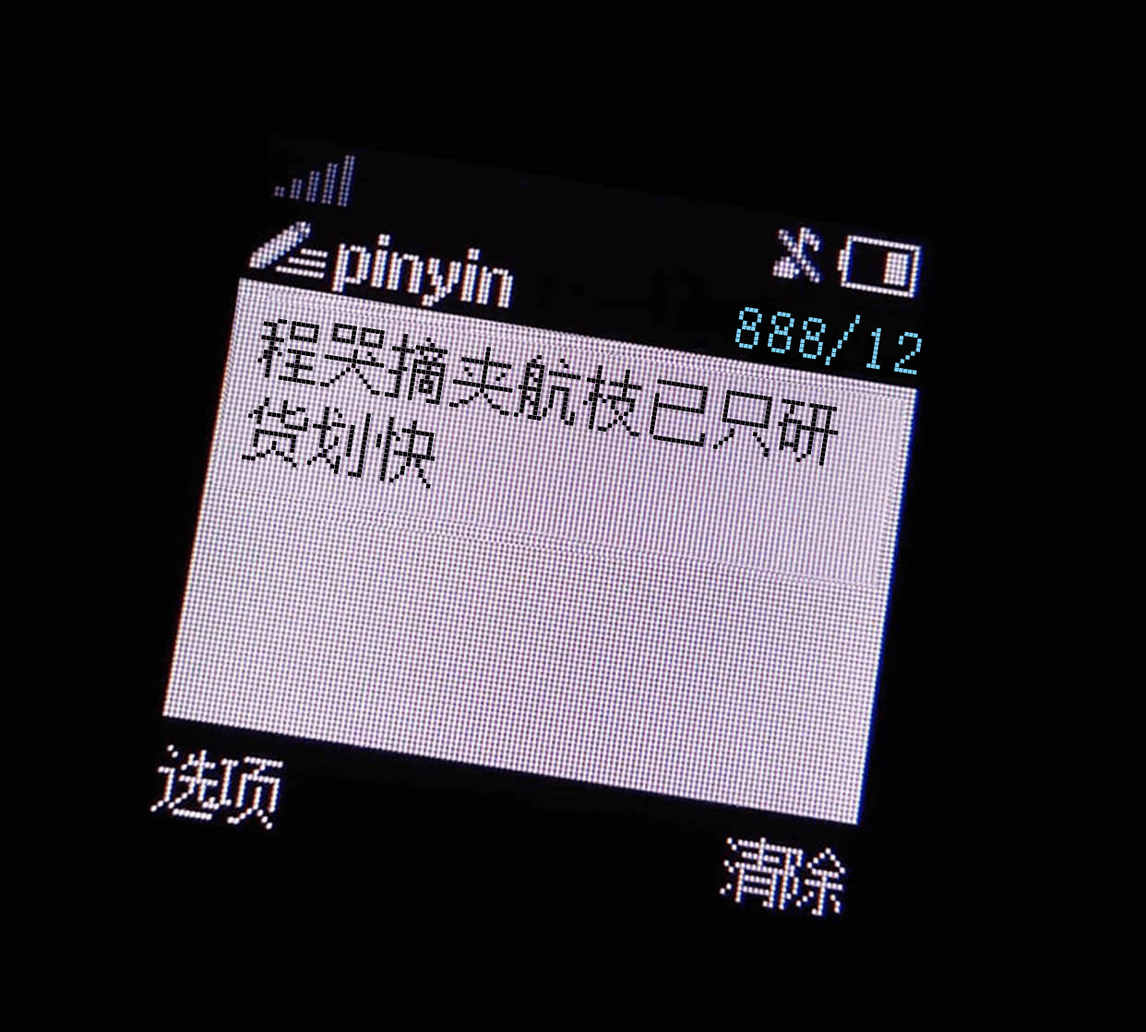
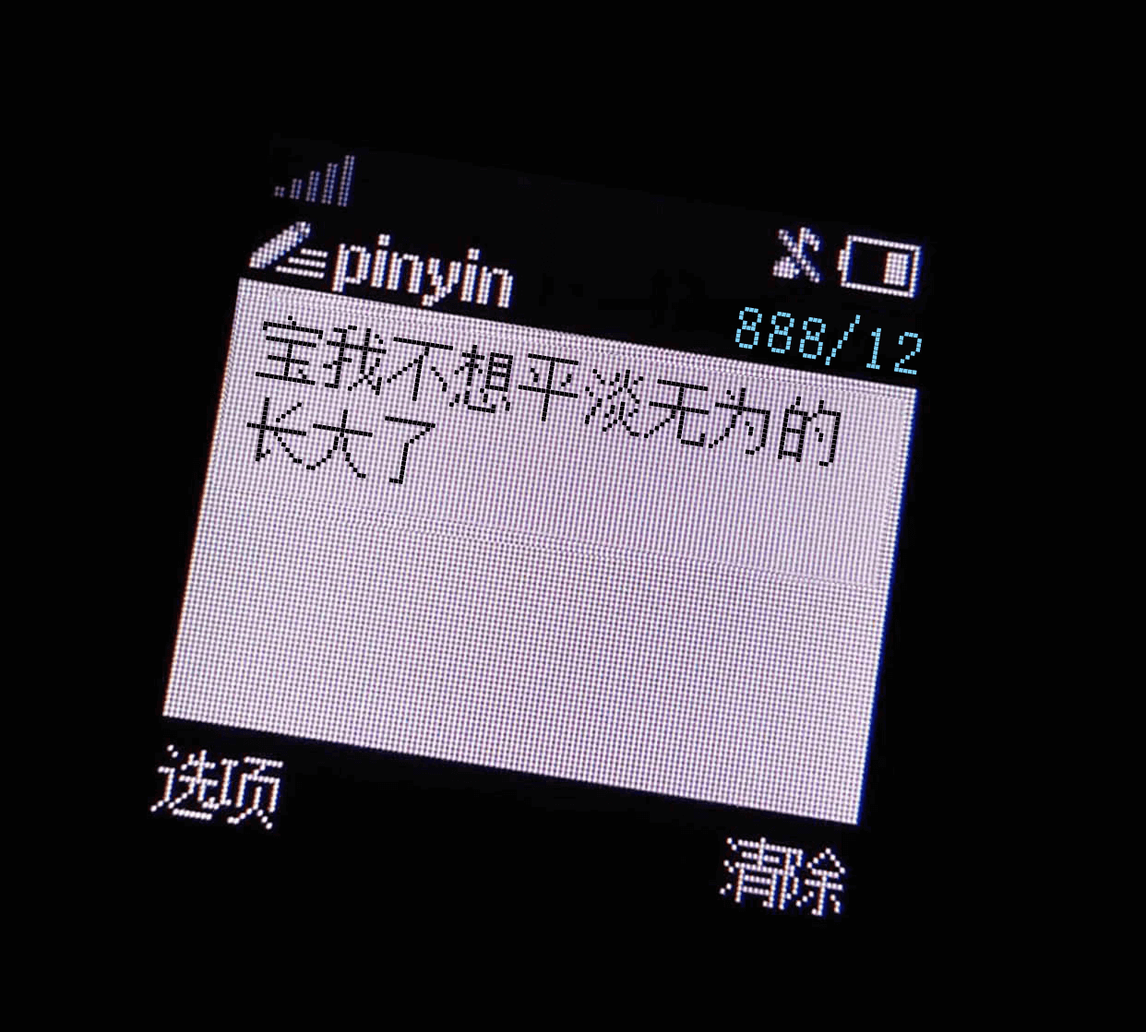
optimize readme

Changed region(s): [[0.2142, 0.3038, 0.7343, 0.4861]]

diff --git a/MnemonicPhraseCNTest.js b/MnemonicPhraseCNTest.js
@@ -1,0 +1,49 @@
+/**
+ * 测试中文助记词是否有效
+ */
+const ethers = require('ethers');
+
+const bip0039ENArray = ['abandon','ability','able','about','above','absent','absorb','abstract','absurd','abuse','access','accident','account','accuse','achieve','acid','acoustic','acquire','across','act','action','actor','actress','actual','adapt','add','addict','address','adjust','admit','adult','advance','advice','aerobic','affair','afford','afraid','again','age','agent','agree','ahead','aim','air','airport','aisle','alarm','album','alcohol','alert','alien','all','alley','allow','almost','alone','alpha','already','also','alter','always','amateur','amazing','among','amount','amused','analyst','anchor','ancient','anger','angle','angry','animal','ankle','announce','annual','another','answer','antenna','antique','anxiety','any','apart','apology','appear','apple','approve','april','arch','arctic','area','arena','argue','arm','armed','armor','army','around','arrange','arrest','arrive','arrow','art','artefact','artist','artwork','ask','aspect','assault','asset','assist','assume','asthma','athlete','atom','attack','attend','attitude','attract','auction','audit','august','aunt','author','auto','autumn','average','avocado','avoid','awake','aware','away','awesome','awful','awkward','axis','baby','bachelor','bacon','badge','bag','balance','balcony','ball','bamboo','banana','banner','bar','barely','bargain','barrel','base','basic','basket','battle','beach','bean','beauty','because','become','beef','before','begin','behave','behind','believe','below','belt','bench','benefit','best','betray','better','between','beyond','bicycle','bid','bike','bind','biology','bird','birth','bitter','black','blade','blame','blanket','blast','bleak','bless','blind','blood','blossom','blouse','blue','blur','blush','board','boat','body','boil','bomb','bone','bonus','book','boost','border','boring','borrow','boss','bottom','bounce','box','boy','bracket','brain','brand','brass','brave','bread','breeze','brick','bridge','brief','bright','bring','brisk','broccoli','broken','bronze','broom','brother','brown','brush','bubble','buddy','budget','buffalo','build','bulb','bulk','bullet','bundle','bunker','burden','burger','burst','bus','business','busy','butter','buyer','buzz','cabbage','cabin','cable','cactus','cage','cake','call','calm','camera','camp','can','canal','cancel','candy','cannon','canoe','canvas','canyon','capable','capital','captain','car','carbon','card','cargo','carpet','carry','cart','case','cash','casino','castle','casual','cat','catalog','catch','category','cattle','caught','cause','caution','cave','ceiling','celery','cement','census','century','cereal','certain','chair','chalk','champion','change','chaos','chapter','charge','chase','chat','cheap','check','cheese','chef','cherry','chest','chicken','chief','child','chimney','choice','choose','chronic','chuckle','chunk','churn','cigar','cinnamon','circle','citizen','city','civil','claim','clap','clarify','claw','clay','clean','clerk','clever','click','client','cliff','climb','clinic','clip','clock','clog','close','cloth','cloud','clown','club','clump','cluster','clutch','coach','coast','coconut','code','coffee','coil','coin','collect','color','column','combine','come','comfort','comic','common','company','concert','conduct','confirm','congress','connect','consider','control','convince','cook','cool','copper','copy','coral','core','corn','correct','cost','cotton','couch','country','couple','course','cousin','cover','coyote','crack','cradle','craft','cram','crane','crash','crater','crawl','crazy','cream','credit','creek','crew','cricket','crime','crisp','critic','crop','cross','crouch','crowd','crucial','cruel','cruise','crumble','crunch','crush','cry','crystal','cube','culture','cup','cupboard','curious','current','curtain','curve','cushion','custom','cute','cycle','dad','damage','damp','dance','danger','daring','dash','daughter','dawn','day','deal','debate','debris','decade','december','decide','decline','decorate','decrease','deer','defense','define','defy','degree','delay','deliver','demand','demise','denial','dentist','deny','depart','depend','deposit','depth','deputy','derive','describe','desert','design','desk','despair','destroy','detail','detect','develop','device','devote','diagram','dial','diamond','diary','dice','diesel','diet','differ','digital','dignity','dilemma','dinner','dinosaur','direct','dirt','disagree','discover','disease','dish','dismiss','disorder','display','distance','divert','divide','divorce','dizzy','doctor','document','dog','doll','dolphin','domain','donate','donkey','donor','door','dose','double','dove','draft','dragon','drama','drastic','draw','dream','dress','drift','drill','drink','drip','drive','drop','drum','dry','duck','dumb','dune','during','dust','dutch','duty','dwarf','dynamic','eager','eagle','early','earn','earth','easily','east','easy','echo','ecology','economy','edge','edit','educate','effort','egg','eight','either','elbow','elder','electric','elegant','element','elephant','elevator','elite','else','embark','embody','embrace','emerge','emotion','employ','empower','empty','enable','enact','end','endless','endorse','enemy','energy','enforce','engage','engine','enhance','enjoy','enlist','enough','enrich','enroll','ensure','enter','entire','entry','envelope','episode','equal','equip','era','erase','erode','erosion','error','erupt','escape','essay','essence','estate','eternal','ethics','evidence','evil','evoke','evolve','exact','example','excess','exchange','excite','exclude','excuse','execute','exercise','exhaust','exhibit','exile','exist','exit','exotic','expand','expect','expire','explain','expose','express','extend','extra','eye','eyebrow','fabric','face','faculty','fade','faint','faith','fall','false','fame','family','famous','fan','fancy','fantasy','farm','fashion','fat','fatal','father','fatigue','fault','favorite','feature','february','federal','fee','feed','feel','female','fence','festival','fetch','fever','few','fiber','fiction','field','figure','file','film','filter','final','find','fine','finger','finish','fire','firm','first','fiscal','fish','fit','fitness','fix','flag','flame','flash','flat','flavor','flee','flight','flip','float','flock','floor','flower','fluid','flush','fly','foam','focus','fog','foil','fold','follow','food','foot','force','forest','forget','fork','fortune','forum','forward','fossil','foster','found','fox','fragile','frame','frequent','fresh','friend','fringe','frog','front','frost','frown','frozen','fruit','fuel','fun','funny','furnace','fury','future','gadget','gain','galaxy','gallery','game','gap','garage','garbage','garden','garlic','garment','gas','gasp','gate','gather','gauge','gaze','general','genius','genre','gentle','genuine','gesture','ghost','giant','gift','giggle','ginger','giraffe','girl','give','glad','glance','glare','glass','glide','glimpse','globe','gloom','glory','glove','glow','glue','goat','goddess','gold','good','goose','gorilla','gospel','gossip','govern','gown','grab','grace','grain','grant','grape','grass','gravity','great','green','grid','grief','grit','grocery','group','grow','grunt','guard','guess','guide','guilt','guitar','gun','gym','habit','hair','half','hammer','hamster','hand','happy','harbor','hard','harsh','harvest','hat','have','hawk','hazard','head','health','heart','heavy','hedgehog','height','hello','helmet','help','hen','hero','hidden','high','hill','hint','hip','hire','history','hobby','hockey','hold','hole','holiday','hollow','home','honey','hood','hope','horn','horror','horse','hospital','host','hotel','hour','hover','hub','huge','human','humble','humor','hundred','hungry','hunt','hurdle','hurry','hurt','husband','hybrid','ice','icon','idea','identify','idle','ignore','ill','illegal','illness','image','imitate','immense','immune','impact','impose','improve','impulse','inch','include','income','increase','index','indicate','indoor','industry','infant','inflict','inform','inhale','inherit','initial','inject','injury','inmate','inner','innocent','input','inquiry','insane','insect','inside','inspire','install','intact','interest','into','invest','invite','involve','iron','island','isolate','issue','item','ivory','jacket','jaguar','jar','jazz','jealous','jeans','jelly','jewel','job','join','joke','journey','joy','judge','juice','jump','jungle','junior','junk','just','kangaroo','keen','keep','ketchup','key','kick','kid','kidney','kind','kingdom','kiss','kit','kitchen','kite','kitten','kiwi','knee','knife','knock','know','lab','label','labor','ladder','lady','lake','lamp','language','laptop','large','later','latin','laugh','laundry','lava','law','lawn','lawsuit','layer','lazy','leader','leaf','learn','leave','lecture','left','leg','legal','legend','leisure','lemon','lend','length','lens','leopard','lesson','letter','level','liar','liberty','library','license','life','lift','light','like','limb','limit','link','lion','liquid','list','little','live','lizard','load','loan','lobster','local','lock','logic','lonely','long','loop','lottery','loud','lounge','love','loyal','lucky','luggage','lumber','lunar','lunch','luxury','lyrics','machine','mad','magic','magnet','maid','mail','main','major','make','mammal','man','manage','mandate','mango','mansion','manual','maple','marble','march','margin','marine','market','marriage','mask','mass','master','match','material','math','matrix','matter','maximum','maze','meadow','mean','measure','meat','mechanic','medal','media','melody','melt','member','memory','mention','menu','mercy','merge','merit','merry','mesh','message','metal','method','middle','midnight','milk','million','mimic','mind','minimum','minor','minute','miracle','mirror','misery','miss','mistake','mix','mixed','mixture','mobile','model','modify','mom','moment','monitor','monkey','monster','month','moon','moral','more','morning','mosquito','mother','motion','motor','mountain','mouse','move','movie','much','muffin','mule','multiply','muscle','museum','mushroom','music','must','mutual','myself','mystery','myth','naive','name','napkin','narrow','nasty','nation','nature','near','neck','need','negative','neglect','neither','nephew','nerve','nest','net','network','neutral','never','news','next','nice','night','noble','noise','nominee','noodle','normal','north','nose','notable','note','nothing','notice','novel','now','nuclear','number','nurse','nut','oak','obey','object','oblige','obscure','observe','obtain','obvious','occur','ocean','october','odor','off','offer','office','often','oil','okay','old','olive','olympic','omit','once','one','onion','online','only','open','opera','opinion','oppose','option','orange','orbit','orchard','order','ordinary','organ','orient','original','orphan','ostrich','other','outdoor','outer','output','outside','oval','oven','over','own','owner','oxygen','oyster','ozone','pact','paddle','page','pair','palace','palm','panda','panel','panic','panther','paper','parade','parent','park','parrot','party','pass','patch','path','patient','patrol','pattern','pause','pave','payment','peace','peanut','pear','peasant','pelican','pen','penalty','pencil','people','pepper','perfect','permit','person','pet','phone','photo','phrase','physical','piano','picnic','picture','piece','pig','pigeon','pill','pilot','pink','pioneer','pipe','pistol','pitch','pizza','place','planet','plastic','plate','play','please','pledge','pluck','plug','plunge','poem','poet','point','polar','pole','police','pond','pony','pool','popular','portion','position','possible','post','potato','pottery','poverty','powder','power','practice','praise','predict','prefer','prepare','present','pretty','prevent','price','pride','primary','print','priority','prison','private','prize','problem','process','produce','profit','program','project','promote','proof','property','prosper','protect','proud','provide','public','pudding','pull','pulp','pulse','pumpkin','punch','pupil','puppy','purchase','purity','purpose','purse','push','put','puzzle','pyramid','quality','quantum','quarter','question','quick','quit','quiz','quote','rabbit','raccoon','race','rack','radar','radio','rail','rain','raise','rally','ramp','ranch','random','range','rapid','rare','rate','rather','raven','raw','razor','ready','real','reason','rebel','rebuild','recall','receive','recipe','record','recycle','reduce','reflect','reform','refuse','region','regret','regular','reject','relax','release','relief','rely','remain','remember','remind','remove','render','renew','rent','reopen','repair','repeat','replace','report','require','rescue','resemble','resist','resource','response','result','retire','retreat','return','reunion','reveal','review','reward','rhythm','rib','ribbon','rice','rich','ride','ridge','rifle','right','rigid','ring','riot','ripple','risk','ritual','rival','river','road','roast','robot','robust','rocket','romance','roof','rookie','room','rose','rotate','rough','round','route','royal','rubber','rude','rug','rule','run','runway','rural','sad','saddle','sadness','safe','sail','salad','salmon','salon','salt','salute','same','sample','sand','satisfy','satoshi','sauce','sausage','save','say','scale','scan','scare','scatter','scene','scheme','school','science','scissors','scorpion','scout','scrap','screen','script','scrub','sea','search','season','seat','second','secret','section','security','seed','seek','segment','select','sell','seminar','senior','sense','sentence','series','service','session','settle','setup','seven','shadow','shaft','shallow','share','shed','shell','sheriff','shield','shift','shine','ship','shiver','shock','shoe','shoot','shop','short','shoulder','shove','shrimp','shrug','shuffle','shy','sibling','sick','side','siege','sight','sign','silent','silk','silly','silver','similar','simple','since','sing','siren','sister','situate','six','size','skate','sketch','ski','skill','skin','skirt','skull','slab','slam','sleep','slender','slice','slide','slight','slim','slogan','slot','slow','slush','small','smart','smile','smoke','smooth','snack','snake','snap','sniff','snow','soap','soccer','social','sock','soda','soft','solar','soldier','solid','solution','solve','someone','song','soon','sorry','sort','soul','sound','soup','source','south','space','spare','spatial','spawn','speak','special','speed','spell','spend','sphere','spice','spider','spike','spin','spirit','split','spoil','sponsor','spoon','sport','spot','spray','spread','spring','spy','square','squeeze','squirrel','stable','stadium','staff','stage','stairs','stamp','stand','start','state','stay','steak','steel','stem','step','stereo','stick','still','sting','stock','stomach','stone','stool','story','stove','strategy','street','strike','strong','struggle','student','stuff','stumble','style','subject','submit','subway','success','such','sudden','suffer','sugar','suggest','suit','summer','sun','sunny','sunset','super','supply','supreme','sure','surface','surge','surprise','surround','survey','suspect','sustain','swallow','swamp','swap','swarm','swear','sweet','swift','swim','swing','switch','sword','symbol','symptom','syrup','system','table','tackle','tag','tail','talent','talk','tank','tape','target','task','taste','tattoo','taxi','teach','team','tell','ten','tenant','tennis','tent','term','test','text','thank','that','theme','then','theory','there','they','thing','this','thought','three','thrive','throw','thumb','thunder','ticket','tide','tiger','tilt','timber','time','tiny','tip','tired','tissue','title','toast','tobacco','today','toddler','toe','together','toilet','token','tomato','tomorrow','tone','tongue','tonight','tool','tooth','top','topic','topple','torch','tornado','tortoise','toss','total','tourist','toward','tower','town','toy','track','trade','traffic','tragic','train','transfer','trap','trash','travel','tray','treat','tree','trend','trial','tribe','trick','trigger','trim','trip','trophy','trouble','truck','true','truly','trumpet','trust','truth','try','tube','tuition','tumble','tuna','tunnel','turkey','turn','turtle','twelve','twenty','twice','twin','twist','two','type','typical','ugly','umbrella','unable','unaware','uncle','uncover','under','undo','unfair','unfold','unhappy','uniform','unique','unit','universe','unknown','unlock','until','unusual','unveil','update','upgrade','uphold','upon','upper','upset','urban','urge','usage','use','used','useful','useless','usual','utility','vacant','vacuum','vague','valid','valley','valve','van','vanish','vapor','various','vast','vault','vehicle','velvet','vendor','venture','venue','verb','verify','version','very','vessel','veteran','viable','vibrant','vicious','victory','video','view','village','vintage','violin','virtual','virus','visa','visit','visual','vital','vivid','vocal','voice','void','volcano','volume','vote','voyage','wage','wagon','wait','walk','wall','walnut','want','warfare','warm','warrior','wash','wasp','waste','water','wave','way','wealth','weapon','wear','weasel','weather','web','wedding','weekend','weird','welcome','west','wet','whale','what','wheat','wheel','when','where','whip','whisper','wide','width','wife','wild','will','win','window','wine','wing','wink','winner','winter','wire','wisdom','wise','wish','witness','wolf','woman','wonder','wood','wool','word','work','world','worry','worth','wrap','wreck','wrestle','wrist','write','wrong','yard','year','yellow','you','young','youth','zebra','zero','zone','zoo'];
+const bip0039CNArray = ['的', '一', '是', '在', '不', '了', '有', '和', '人', '这', '中', '大', '为', '上', '个', '国', '我', '以', '要', '他', '时', '来', '用', '们', '生', '到', '作', '地', '于', '出', '就', '分', '对', '成', '会', '可', '主', '发', '年', '动', '同', '工', '也', '能', '下', '过', '子', '说', '产', '种', '面', '而', '方', '后', '多', '定', '行', '学', '法', '所', '民', '得', '经', '十', '三', '之', '进', '着', '等', '部', '度', '家', '电', '力', '里', '如', '水', '化', '高', '自', '二', '理', '起', '小', '物', '现', '实', '加', '量', '都', '两', '体', '制', '机', '当', '使', '点', '从', '业', '本', '去', '把', '性', '好', '应', '开', '它', '合', '还', '因', '由', '其', '些', '然', '前', '外', '天', '政', '四', '日', '那', '社', '义', '事', '平', '形', '相', '全', '表', '间', '样', '与', '关', '各', '重', '新', '线', '内', '数', '正', '心', '反', '你', '明', '看', '原', '又', '么', '利', '比', '或', '但', '质', '气', '第', '向', '道', '命', '此', '变', '条', '只', '没', '结', '解', '问', '意', '建', '月', '公', '无', '系', '军', '很', '情', '者', '最', '立', '代', '想', '已', '通', '并', '提', '直', '题', '党', '程', '展', '五', '果', '料', '象', '员', '革', '位', '入', '常', '文', '总', '次', '品', '式', '活', '设', '及', '管', '特', '件', '长', '求', '老', '头', '基', '资', '边', '流', '路', '级', '少', '图', '山', '统', '接', '知', '较', '将', '组', '见', '计', '别', '她', '手', '角', '期', '根', '论', '运', '农', '指', '几', '九', '区', '强', '放', '决', '西', '被', '干', '做', '必', '战', '先', '回', '则', '任', '取', '据', '处', '队', '南', '给', '色', '光', '门', '即', '保', '治', '北', '造', '百', '规', '热', '领', '七', '海', '口', '东', '导', '器', '压', '志', '世', '金', '增', '争', '济', '阶', '油', '思', '术', '极', '交', '受', '联', '什', '认', '六', '共', '权', '收', '证', '改', '清', '美', '再', '采', '转', '更', '单', '风', '切', '打', '白', '教', '速', '花', '带', '安', '场', '身', '车', '例', '真', '务', '具', '万', '每', '目', '至', '达', '走', '积', '示', '议', '声', '报', '斗', '完', '类', '八', '离', '华', '名', '确', '才', '科', '张', '信', '马', '节', '话', '米', '整', '空', '元', '况', '今', '集', '温', '传', '土', '许', '步', '群', '广', '石', '记', '需', '段', '研', '界', '拉', '林', '律', '叫', '且', '究', '观', '越', '织', '装', '影', '算', '低', '持', '音', '众', '书', '布', '复', '容', '儿', '须', '际', '商', '非', '验', '连', '断', '深', '难', '近', '矿', '千', '周', '委', '素', '技', '备', '半', '办', '青', '省', '列', '习', '响', '约', '支', '般', '史', '感', '劳', '便', '团', '往', '酸', '历', '市', '克', '何', '除', '消', '构', '府', '称', '太', '准', '精', '值', '号', '率', '族', '维', '划', '选', '标', '写', '存', '候', '毛', '亲', '快', '效', '斯', '院', '查', '江', '型', '眼', '王', '按', '格', '养', '易', '置', '派', '层', '片', '始', '却', '专', '状', '育', '厂', '京', '识', '适', '属', '圆', '包', '火', '住', '调', '满', '县', '局', '照', '参', '红', '细', '引', '听', '该', '铁', '价', '严', '首', '底', '液', '官', '德', '随', '病', '苏', '失', '尔', '死', '讲', '配', '女', '黄', '推', '显', '谈', '罪', '神', '艺', '呢', '席', '含', '企', '望', '密', '批', '营', '项', '防', '举', '球', '英', '氧', '势', '告', '李', '台', '落', '木', '帮', '轮', '破', '亚', '师', '围', '注', '远', '字', '材', '排', '供', '河', '态', '封', '另', '施', '减', '树', '溶', '怎', '止', '案', '言', '士', '均', '武', '固', '叶', '鱼', '波', '视', '仅', '费', '紧', '爱', '左', '章', '早', '朝', '害', '续', '轻', '服', '试', '食', '充', '兵', '源', '判', '护', '司', '足', '某', '练', '差', '致', '板', '田', '降', '黑', '犯', '负', '击', '范', '继', '兴', '似', '余', '坚', '曲', '输', '修', '故', '城', '夫', '够', '送', '笔', '船', '占', '右', '财', '吃', '富', '春', '职', '觉', '汉', '画', '功', '巴', '跟', '虽', '杂', '飞', '检', '吸', '助', '升', '阳', '互', '初', '创', '抗', '考', '投', '坏', '策', '古', '径', '换', '未', '跑', '留', '钢', '曾', '端', '责', '站', '简', '述', '钱', '副', '尽', '帝', '射', '草', '冲', '承', '独', '令', '限', '阿', '宣', '环', '双', '请', '超', '微', '让', '控', '州', '良', '轴', '找', '否', '纪', '益', '依', '优', '顶', '础', '载', '倒', '房', '突', '坐', '粉', '敌', '略', '客', '袁', '冷', '胜', '绝', '析', '块', '剂', '测', '丝', '协', '诉', '念', '陈', '仍', '罗', '盐', '友', '洋', '错', '苦', '夜', '刑', '移', '频', '逐', '靠', '混', '母', '短', '皮', '终', '聚', '汽', '村', '云', '哪', '既', '距', '卫', '停', '烈', '央', '察', '烧', '迅', '境', '若', '印', '洲', '刻', '括', '激', '孔', '搞', '甚', '室', '待', '核', '校', '散', '侵', '吧', '甲', '游', '久', '菜', '味', '旧', '模', '湖', '货', '损', '预', '阻', '毫', '普', '稳', '乙', '妈', '植', '息', '扩', '银', '语', '挥', '酒', '守', '拿', '序', '纸', '医', '缺', '雨', '吗', '针', '刘', '啊', '急', '唱', '误', '训', '愿', '审', '附', '获', '茶', '鲜', '粮', '斤', '孩', '脱', '硫', '肥', '善', '龙', '演', '父', '渐', '血', '欢', '械', '掌', '歌', '沙', '刚', '攻', '谓', '盾', '讨', '晚', '粒', '乱', '燃', '矛', '乎', '杀', '药', '宁', '鲁', '贵', '钟', '煤', '读', '班', '伯', '香', '介', '迫', '句', '丰', '培', '握', '兰', '担', '弦', '蛋', '沉', '假', '穿', '执', '答', '乐', '谁', '顺', '烟', '缩', '征', '脸', '喜', '松', '脚', '困', '异', '免', '背', '星', '福', '买', '染', '井', '概', '慢', '怕', '磁', '倍', '祖', '皇', '促', '静', '补', '评', '翻', '肉', '践', '尼', '衣', '宽', '扬', '棉', '希', '伤', '操', '垂', '秋', '宜', '氢', '套', '督', '振', '架', '亮', '末', '宪', '庆', '编', '牛', '触', '映', '雷', '销', '诗', '座', '居', '抓', '裂', '胞', '呼', '娘', '景', '威', '绿', '晶', '厚', '盟', '衡', '鸡', '孙', '延', '危', '胶', '屋', '乡', '临', '陆', '顾', '掉', '呀', '灯', '岁', '措', '束', '耐', '剧', '玉', '赵', '跳', '哥', '季', '课', '凯', '胡', '额', '款', '绍', '卷', '齐', '伟', '蒸', '殖', '永', '宗', '苗', '川', '炉', '岩', '弱', '零', '杨', '奏', '沿', '露', '杆', '探', '滑', '镇', '饭', '浓', '航', '怀', '赶', '库', '夺', '伊', '灵', '税', '途', '灭', '赛', '归', '召', '鼓', '播', '盘', '裁', '险', '康', '唯', '录', '菌', '纯', '借', '糖', '盖', '横', '符', '私', '努', '堂', '域', '枪', '润', '幅', '哈', '竟', '熟', '虫', '泽', '脑', '壤', '碳', '欧', '遍', '侧', '寨', '敢', '彻', '虑', '斜', '薄', '庭', '纳', '弹', '饲', '伸', '折', '麦', '湿', '暗', '荷', '瓦', '塞', '床', '筑', '恶', '户', '访', '塔', '奇', '透', '梁', '刀', '旋', '迹', '卡', '氯', '遇', '份', '毒', '泥', '退', '洗', '摆', '灰', '彩', '卖', '耗', '夏', '择', '忙', '铜', '献', '硬', '予', '繁', '圈', '雪', '函', '亦', '抽', '篇', '阵', '阴', '丁', '尺', '追', '堆', '雄', '迎', '泛', '爸', '楼', '避', '谋', '吨', '野', '猪', '旗', '累', '偏', '典', '馆', '索', '秦', '脂', '潮', '爷', '豆', '忽', '托', '惊', '塑', '遗', '愈', '朱', '替', '纤', '粗', '倾', '尚', '痛', '楚', '谢', '奋', '购', '磨', '君', '池', '旁', '碎', '骨', '监', '捕', '弟', '暴', '割', '贯', '殊', '释', '词', '亡', '壁', '顿', '宝', '午', '尘', '闻', '揭', '炮', '残', '冬', '桥', '妇', '警', '综', '招', '吴', '付', '浮', '遭', '徐', '您', '摇', '谷', '赞', '箱', '隔', '订', '男', '吹', '园', '纷', '唐', '败', '宋', '玻', '巨', '耕', '坦', '荣', '闭', '湾', '键', '凡', '驻', '锅', '救', '恩', '剥', '凝', '碱', '齿', '截', '炼', '麻', '纺', '禁', '废', '盛', '版', '缓', '净', '睛', '昌', '婚', '涉', '筒', '嘴', '插', '岸', '朗', '庄', '街', '藏', '姑', '贸', '腐', '奴', '啦', '惯', '乘', '伙', '恢', '匀', '纱', '扎', '辩', '耳', '彪', '臣', '亿', '璃', '抵', '脉', '秀', '萨', '俄', '网', '舞', '店', '喷', '纵', '寸', '汗', '挂', '洪', '贺', '闪', '柬', '爆', '烯', '津', '稻', '墙', '软', '勇', '像', '滚', '厘', '蒙', '芳', '肯', '坡', '柱', '荡', '腿', '仪', '旅', '尾', '轧', '冰', '贡', '登', '黎', '削', '钻', '勒', '逃', '障', '氨', '郭', '峰', '币', '港', '伏', '轨', '亩', '毕', '擦', '莫', '刺', '浪', '秘', '援', '株', '健', '售', '股', '岛', '甘', '泡', '睡', '童', '铸', '汤', '阀', '休', '汇', '舍', '牧', '绕', '炸', '哲', '磷', '绩', '朋', '淡', '尖', '启', '陷', '柴', '呈', '徒', '颜', '泪', '稍', '忘', '泵', '蓝', '拖', '洞', '授', '镜', '辛', '壮', '锋', '贫', '虚', '弯', '摩', '泰', '幼', '廷', '尊', '窗', '纲', '弄', '隶', '疑', '氏', '宫', '姐', '震', '瑞', '怪', '尤', '琴', '循', '描', '膜', '违', '夹', '腰', '缘', '珠', '穷', '森', '枝', '竹', '沟', '催', '绳', '忆', '邦', '剩', '幸', '浆', '栏', '拥', '牙', '贮', '礼', '滤', '钠', '纹', '罢', '拍', '咱', '喊', '袖', '埃', '勤', '罚', '焦', '潜', '伍', '墨', '欲', '缝', '姓', '刊', '饱', '仿', '奖', '铝', '鬼', '丽', '跨', '默', '挖', '链', '扫', '喝', '袋', '炭', '污', '幕', '诸', '弧', '励', '梅', '奶', '洁', '灾', '舟', '鉴', '苯', '讼', '抱', '毁', '懂', '寒', '智', '埔', '寄', '届', '跃', '渡', '挑', '丹', '艰', '贝', '碰', '拔', '爹', '戴', '码', '梦', '芽', '熔', '赤', '渔', '哭', '敬', '颗', '奔', '铅', '仲', '虎', '稀', '妹', '乏', '珍', '申', '桌', '遵', '允', '隆', '螺', '仓', '魏', '锐', '晓', '氮', '兼', '隐', '碍', '赫', '拨', '忠', '肃', '缸', '牵', '抢', '博', '巧', '壳', '兄', '杜', '讯', '诚', '碧', '祥', '柯', '页', '巡', '矩', '悲', '灌', '龄', '伦', '票', '寻', '桂', '铺', '圣', '恐', '恰', '郑', '趣', '抬', '荒', '腾', '贴', '柔', '滴', '猛', '阔', '辆', '妻', '填', '撤', '储', '签', '闹', '扰', '紫', '砂', '递', '戏', '吊', '陶', '伐', '喂', '疗', '瓶', '婆', '抚', '臂', '摸', '忍', '虾', '蜡', '邻', '胸', '巩', '挤', '偶', '弃', '槽', '劲', '乳', '邓', '吉', '仁', '烂', '砖', '租', '乌', '舰', '伴', '瓜', '浅', '丙', '暂', '燥', '橡', '柳', '迷', '暖', '牌', '秧', '胆', '详', '簧', '踏', '瓷', '谱', '呆', '宾', '糊', '洛', '辉', '愤', '竞', '隙', '怒', '粘', '乃', '绪', '肩', '籍', '敏', '涂', '熙', '皆', '侦', '悬', '掘', '享', '纠', '醒', '狂', '锁', '淀', '恨', '牲', '霸', '爬', '赏', '逆', '玩', '陵', '祝', '秒', '浙', '貌', '役', '彼', '悉', '鸭', '趋', '凤', '晨', '畜', '辈', '秩', '卵', '署', '梯', '炎', '滩', '棋', '驱', '筛', '峡', '冒', '啥', '寿', '译', '浸', '泉', '帽', '迟', '硅', '疆', '贷', '漏', '稿', '冠', '嫩', '胁', '芯', '牢', '叛', '蚀', '奥', '鸣', '岭', '羊', '凭', '串', '塘', '绘', '酵', '融', '盆', '锡', '庙', '筹', '冻', '辅', '摄', '袭', '筋', '拒', '僚', '旱', '钾', '鸟', '漆', '沈', '眉', '疏', '添', '棒', '穗', '硝', '韩', '逼', '扭', '侨', '凉', '挺', '碗', '栽', '炒', '杯', '患', '馏', '劝', '豪', '辽', '勃', '鸿', '旦', '吏', '拜', '狗', '埋', '辊', '掩', '饮', '搬', '骂', '辞', '勾', '扣', '估', '蒋', '绒', '雾', '丈', '朵', '姆', '拟', '宇', '辑', '陕', '雕', '偿', '蓄', '崇', '剪', '倡', '厅', '咬', '驶', '薯', '刷', '斥', '番', '赋', '奉', '佛', '浇', '漫', '曼', '扇', '钙', '桃', '扶', '仔', '返', '俗', '亏', '腔', '鞋', '棱', '覆', '框', '悄', '叔', '撞', '骗', '勘', '旺', '沸', '孤', '吐', '孟', '渠', '屈', '疾', '妙', '惜', '仰', '狠', '胀', '谐', '抛', '霉', '桑', '岗', '嘛', '衰', '盗', '渗', '脏', '赖', '涌', '甜', '曹', '阅', '肌', '哩', '厉', '烃', '纬', '毅', '昨', '伪', '症', '煮', '叹', '钉', '搭', '茎', '笼', '酷', '偷', '弓', '锥', '恒', '杰', '坑', '鼻', '翼', '纶', '叙', '狱', '逮', '罐', '络', '棚', '抑', '膨', '蔬', '寺', '骤', '穆', '冶', '枯', '册', '尸', '凸', '绅', '坯', '牺', '焰', '轰', '欣', '晋', '瘦', '御', '锭', '锦', '丧', '旬', '锻', '垄', '搜', '扑', '邀', '亭', '酯', '迈', '舒', '脆', '酶', '闲', '忧', '酚', '顽', '羽', '涨', '卸', '仗', '陪', '辟', '惩', '杭', '姚', '肚', '捉', '飘', '漂', '昆', '欺', '吾', '郎', '烷', '汁', '呵', '饰', '萧', '雅', '邮', '迁', '燕', '撒', '姻', '赴', '宴', '烦', '债', '帐', '斑', '铃', '旨', '醇', '董', '饼', '雏', '姿', '拌', '傅', '腹', '妥', '揉', '贤', '拆', '歪', '葡', '胺', '丢', '浩', '徽', '昂', '垫', '挡', '览', '贪', '慰', '缴', '汪', '慌', '冯', '诺', '姜', '谊', '凶', '劣', '诬', '耀', '昏', '躺', '盈', '骑', '乔', '溪', '丛', '卢', '抹', '闷', '咨', '刮', '驾', '缆', '悟', '摘', '铒', '掷', '颇', '幻', '柄', '惠', '惨', '佳', '仇', '腊', '窝', '涤', '剑', '瞧', '堡', '泼', '葱', '罩', '霍', '捞', '胎', '苍', '滨', '俩', '捅', '湘', '砍', '霞', '邵', '萄', '疯', '淮', '遂', '熊', '粪', '烘', '宿', '档', '戈', '驳', '嫂', '裕', '徙', '箭', '捐', '肠', '撑', '晒', '辨', '殿', '莲', '摊', '搅', '酱', '屏', '疫', '哀', '蔡', '堵', '沫', '皱', '畅', '叠', '阁', '莱', '敲', '辖', '钩', '痕', '坝', '巷', '饿', '祸', '丘', '玄', '溜', '曰', '逻', '彭', '尝', '卿', '妨', '艇', '吞', '韦', '怨', '矮', '歇'];
+
+for(;;){
+//宝我不想平淡无为的长大了 mosquito acoustic above biology auto pizza best account abandon boss accident absent
+//出入平安一路顺风喜怒无病 admit blush auto chief ability brass hip chat hold shuffle best discover
+//人之初性本善子不学非所乃 absurd amused exotic art arrest grant alarm above already cover alter sibling
+    var mnemonicPhraseCN = "出入平安一路顺风喜怒无病";// 输入0~12位中文助记词,缺少位会自动填补
+    var mnemonicPhraseCNArr = mnemonicPhraseCN.toString().split("");
+    for(;;){
+        if (mnemonicPhraseCNArr.length == 12)
+            break;
+        var randomIndex = Math.floor(Math.random()*bip0039CNArray.length);
+        if (mnemonicPhraseCNArr.indexOf(bip0039CNArray[randomIndex]) == -1){
+            mnemonicPhraseCNArr.push(bip0039CNArray[randomIndex]);
+        }
+    }
+
+    var mnemonicPhraseENArr = [];
+    for (var i=0;i<mnemonicPhraseCNArr.length;i++){
+        for (var j = 0; j < bip0039CNArray.length; j++) {
+            if (bip0039CNArray[j] == mnemonicPhraseCNArr[i]) {
+                mnemonicPhraseENArr.push(bip0039ENArray[j]);
+                break;
+            }
+        }
+    }
+    var mnemonicPhrase = mnemonicPhraseENArr.join(" ");
+    try{
+        var mnemonic = ethers.Wallet.fromMnemonic(mnemonicPhrase);
+        var wallet = new ethers.Wallet(mnemonic.privateKey);
+        console.log(`钱包地址： ${wallet.address}`)
+        console.log(`钱包私钥： ${mnemonic.privateKey.substring(2)}`)
+        console.log(`钱包助记词： ${mnemonicPhrase}`)
+        console.log(`钱包助记词CN： ${mnemonicPhraseCNArr.join("")}`)
+        console.log("-------------------------------------------------------------------")
+    }catch(error){
+        console.log("错误的助记词");
+    }
+    if (mnemonicPhraseCN.length == 12)
+        return;
+}
+
+

diff --git a/README.md b/README.md
@@ -1,6 +1,5 @@
 # MnemonicToCN
-助记词转中文,中文助记词传输或存储更安全,无需任何权限.
-(支持12、15、18、21、24位助记词)
+助记词转中文,中文助记词传输或存储更安全,无需任何权限.支持各种位数(12、15、18、21、24)的助记词
 
 ## 实现原理
 
@@ -19,31 +18,18 @@ md5:2bffa3aebc256f881fd6d054543531f4
 sha256:0c45a90945bfcd7f1091caf90aa88911ed735ffa50ed793a80bdb34a2150cb72
 
 ## 示例
-<img src="screenshot/example.png" width="30%">
+<img src="screenshot/4.png" width="30%">
+<img src="screenshot/3.png" width="30%">
+<img src="screenshot/1.png" width="30%">
 
 
 可以想象你在网络上传输或存储英文助记词容易被第三方软件或后门程序检测盗取,或者助记词记录在纸张上被亲人或朋友盗取,丢失后也容易被他人认出这是助记词.
 
 ```
-blast repeat visual prize kiwi project bird before comic gate daring decade
+admit blush auto chief ability brass hip chat hold shuffle best discover
 ```
 
 而换成中文,不易被检测.它可以是一段话,三字经,四字成语格式存储,因为没有人知道它是助记词.
-
-```
-一段话:程哭摘夹航枝已只研货划快
-
-三字经:
-	程哭摘
-	夹航枝
-	已只研
-	货划快
-
-四字成语:
-	程哭摘夹
-	航枝已只
-	研货划快
-```
 
 ## 关于存储
 1.图片
@@ -52,7 +38,7 @@ blast repeat visual prize kiwi project bird before comic gate daring decade
 
 2.转成字帖放在家里的书架上
 
-<img src="screenshot/zt.jpg" width="240px">
+<img src="screenshot/zt.png" width="240px">
 
 3.制作成钥匙链放在保险箱里(我相信小偷会拿走钱也不会拿走你的钥匙链)
 
